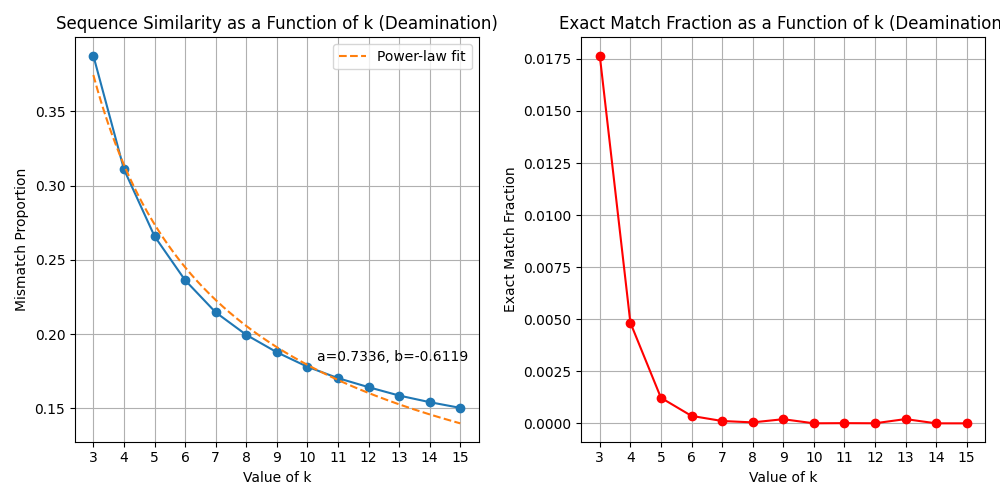
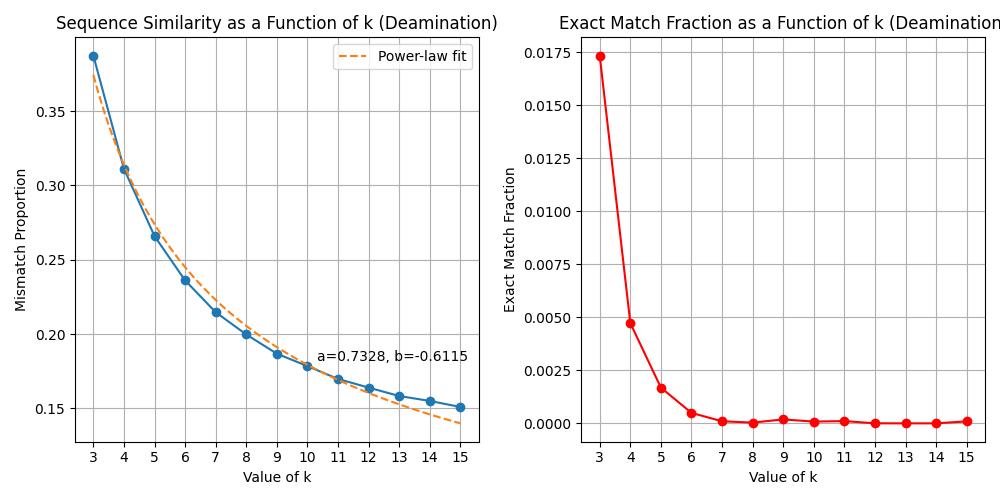
Update

diff --git a/simulations/avg_mismatch/main.py b/simulations/avg_mismatch/main.py
@@ -37,12 +37,12 @@ def fragment_genome(sequence: str, mean_fragment_size: int, std_dev: int, num_fr
         start = random.randint(0, len(sequence) - mean_fragment_size)
         fragment_size = int(np.random.normal(mean_fragment_size, std_dev))
         fragment = sequence[start:start+fragment_size]
-        fragments.append(fragment)
+        circular_fragment = fragment + fragment[:mean_fragment_size]  # Creating a circular fragment
+        fragments.append(circular_fragment)
     return fragments
 
-def generate_circular_reads(sequence: str, read_length: int, num_reads: int = None) -> List[str]:
+def generate_reads(sequence: str, read_length: int, num_reads: int = None) -> List[str]:
     assert len(sequence) >= read_length, "Sequence length should be greater than or equal to read_length."
-    circular_sequence = sequence + sequence[:read_length-1]
     if num_reads is None:
         num_reads = len(sequence)
 
@@ -50,9 +50,9 @@ def generate_circular_reads(sequence: str, read_length: int, num_reads: int = No
 
     reads = []
     for i in range(num_reads):
-        read = circular_sequence[i:i+read_length]
+        read = sequence[i:i+read_length]
         read_with_errors = "".join(
-            (base if random.random() > error_rate else random.choice("ACGT".replace(base, ""))) 
+            (base if random.random() > error_rate else random.choice("ACGT".replace(base, "")))
             for base in read
         )
         reads.append(read_with_errors)
@@ -116,7 +116,7 @@ for k in k_values:
     fragments = fragment_genome(sequence, 150, 0, 10000)
     all_reads = []
     for fragment in fragments:
-        reads_from_fragment = generate_circular_reads(fragment, 75, 1)
+        reads_from_fragment = generate_reads(fragment, 75, 1)
         all_reads.extend(reads_from_fragment)
     mutated_reads = apply_deamination_mutations(all_reads, 0.2)
     mismatch_counts, exact_matches, total_kmers = find_deamination_mismatches(mutated_reads, k, w, minimizer_table, rymer_table, sequence)
